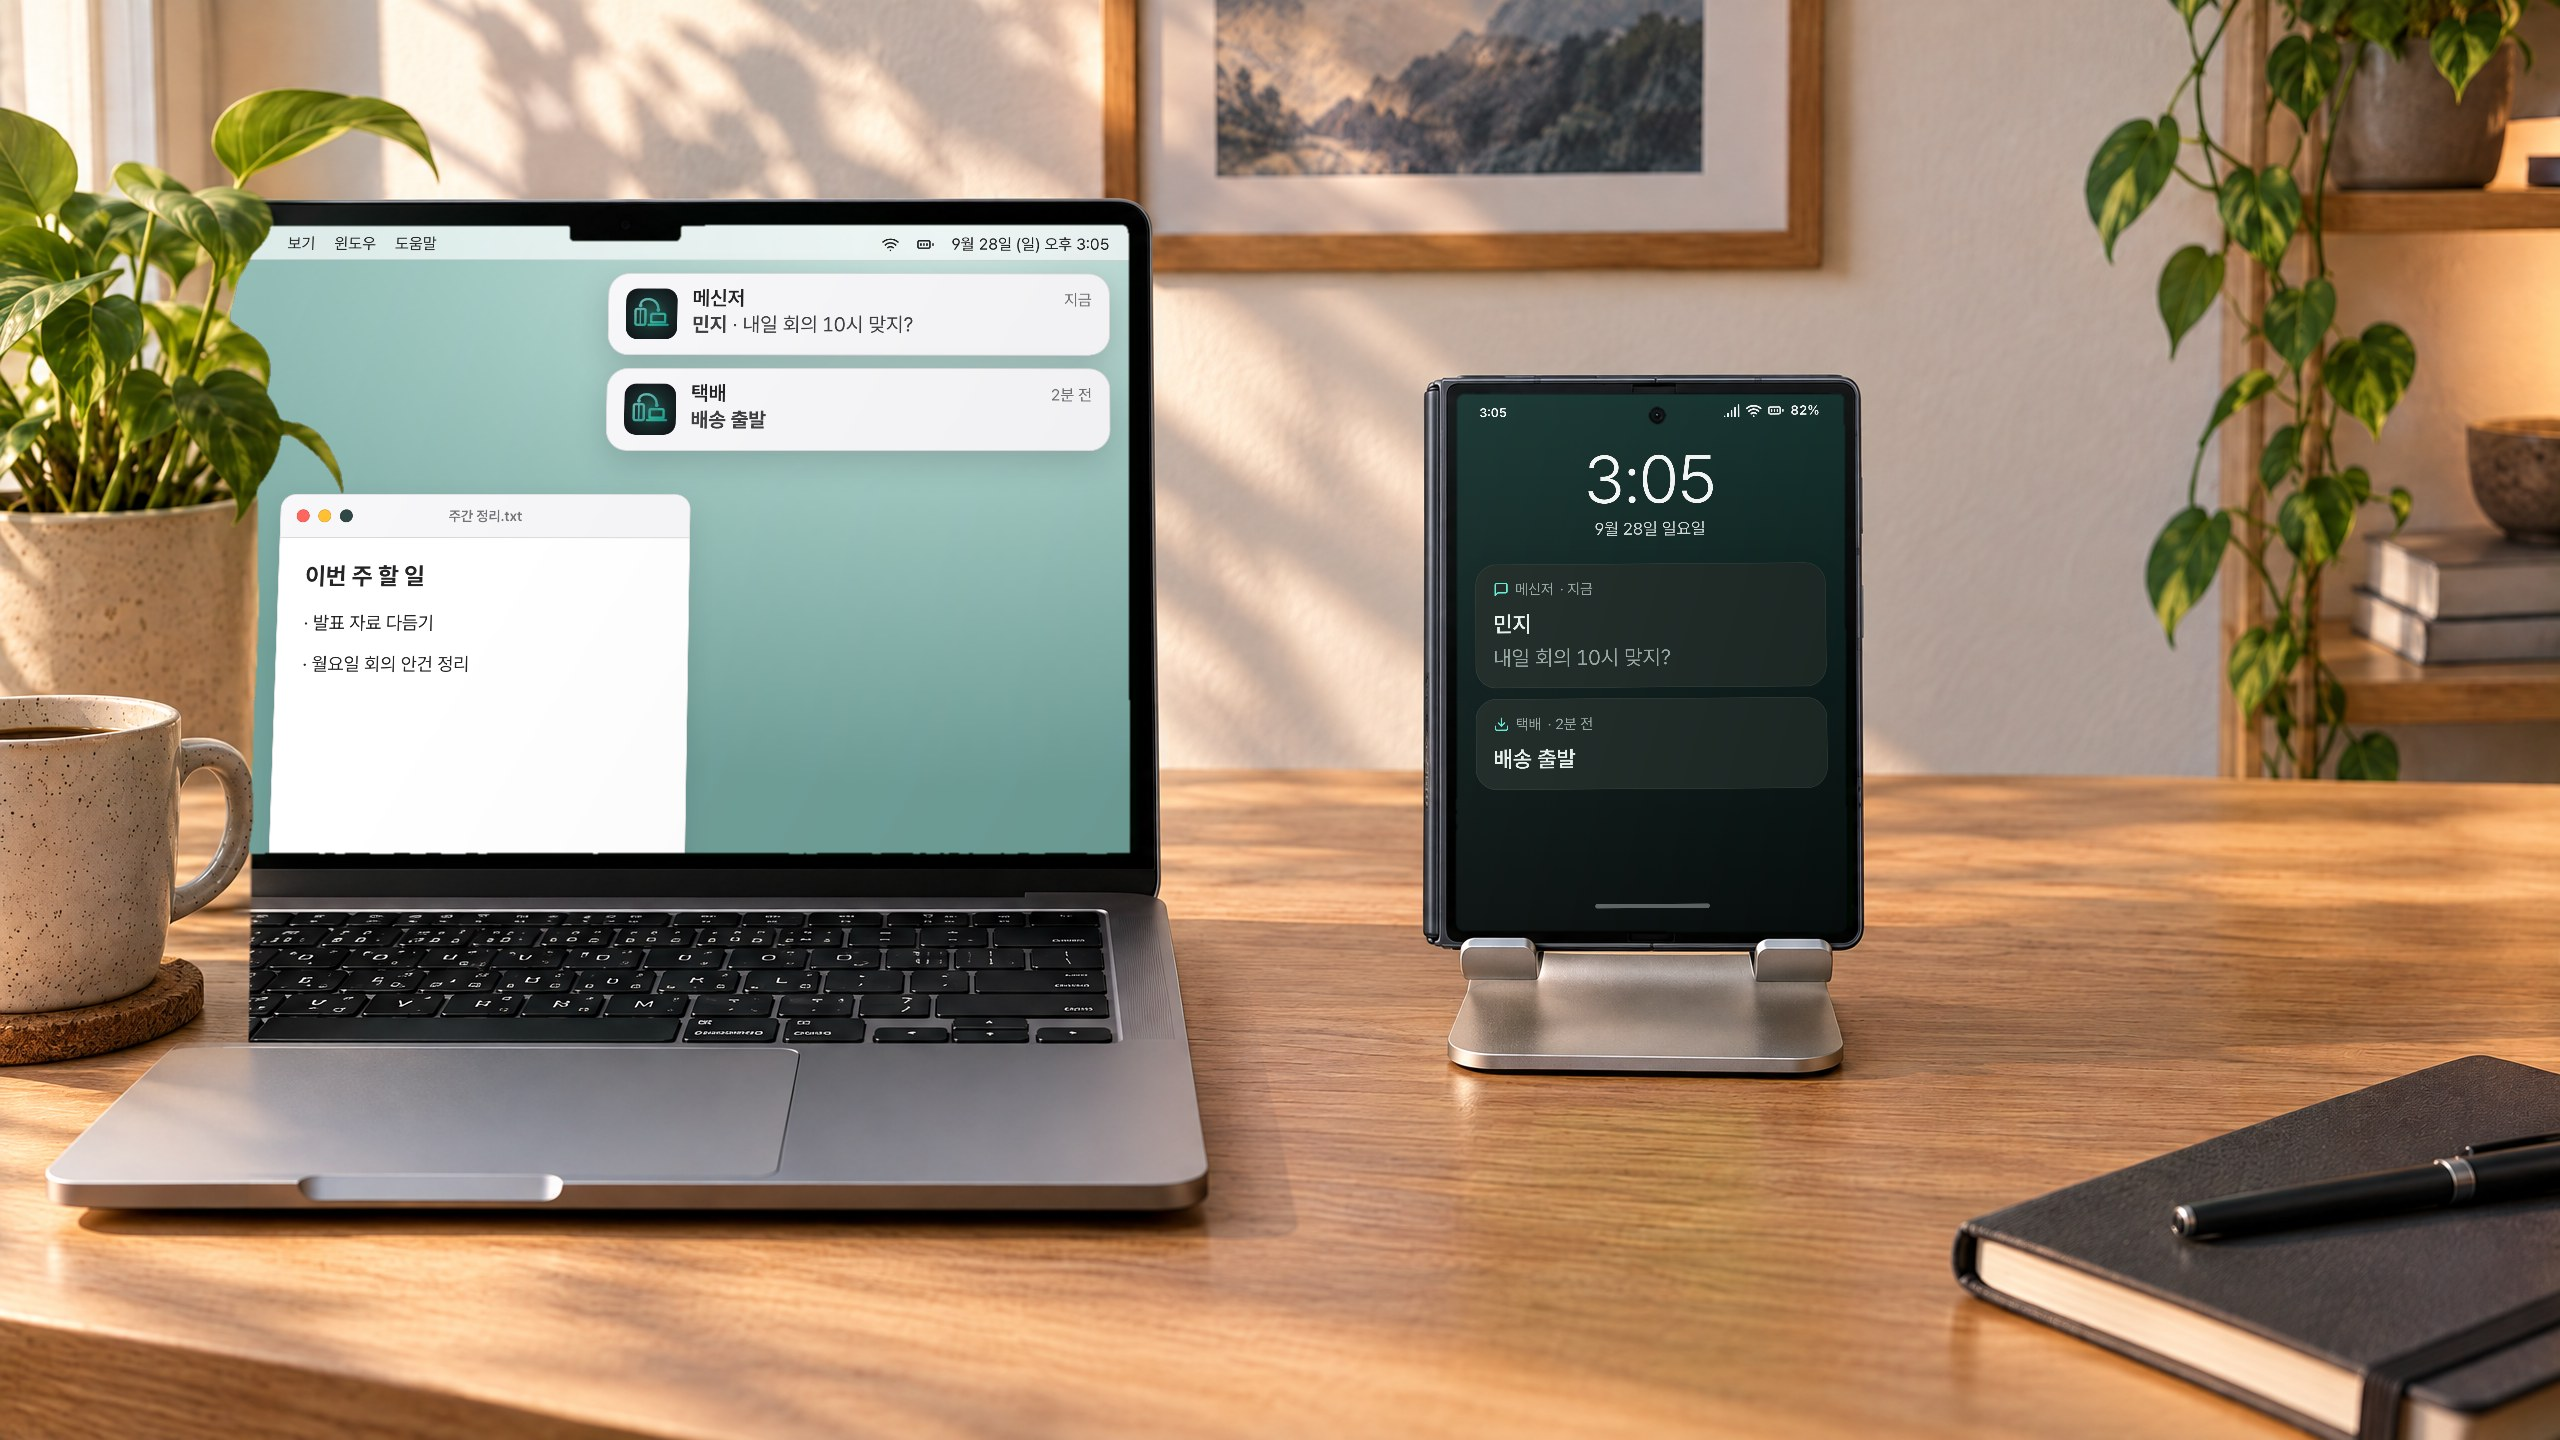
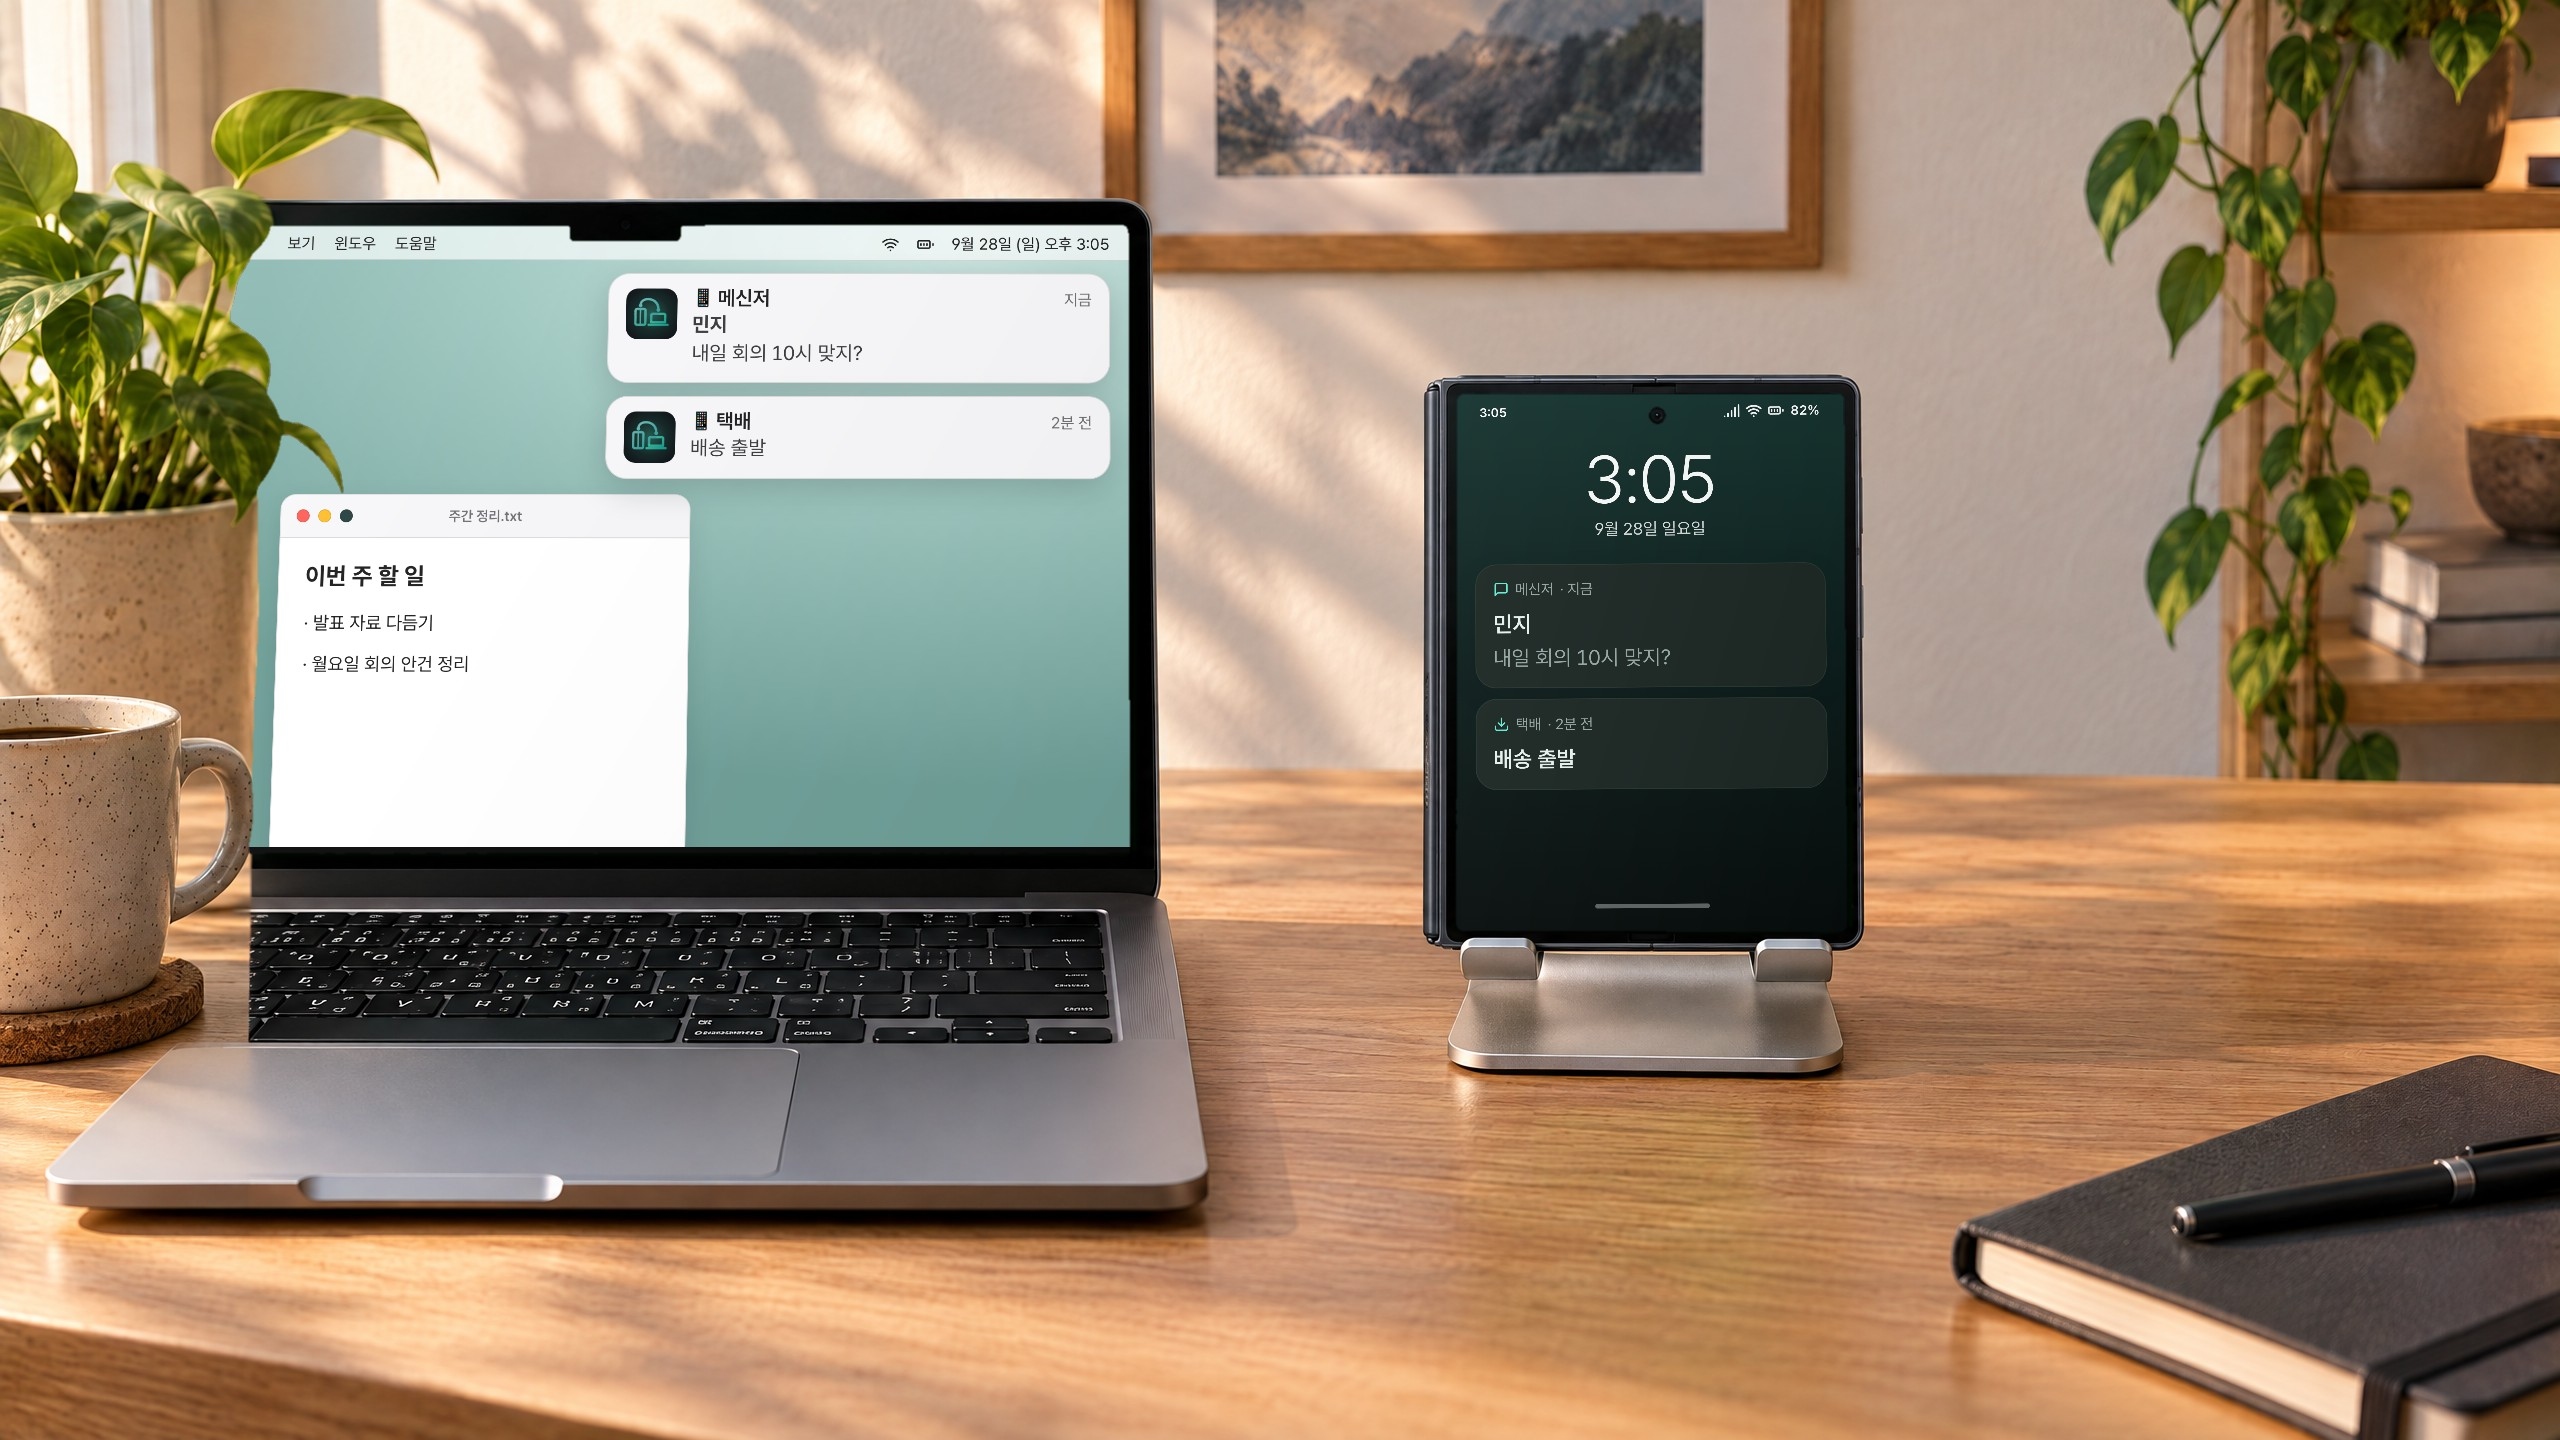
docs: scene fixes
Scene 2: show the Mac banner the way clipd posts it via terminal-notifier
(title "📱 <app>", sender line, message) and hide a jagged dark edge along
the bottom of the composited Mac screen.

Changed region(s): [[0.2188, 0.1875, 0.4375, 0.3438], [0.0938, 0.5625, 0.4375, 0.5938]]

diff --git a/docs/mockups/scenes/2-notify-mac.html b/docs/mockups/scenes/2-notify-mac.html
@@ -21,6 +21,8 @@
   .mac-notification .n-title { font-size: 19px; }
   .mac-notification .n-time { font-size: 15px; }
   .mac-notification .n-body { font-size: 19px; line-height: 27px; }
+  /* 배경 G 의 맥 화면 아래 가장자리 초록 경계가 들쭉날쭉해 합성 후 검은 톱니가 보인다 → 화면 맨 아래를 베젤처럼 어둡게 */
+  .desk::after { content: ""; position: absolute; left: 0; right: 0; bottom: 0; height: 3px; background: #0b0b0c; z-index: 9; }
 </style></head><body>
 <div class="desk">
   <div class="mac-menubar">
@@ -31,15 +33,15 @@
     <div class="mac-notification">
       <img data-app="clipbridge" alt="">
       <div>
-        <div class="n-top"><span class="n-title">메신저</span><span class="n-time">지금</span></div>
-        <div class="n-body"><b>민지</b> · 내일 회의 10시 맞지?</div>
+        <div class="n-top"><span class="n-title">📱 메신저</span><span class="n-time">지금</span></div>
+        <div class="n-body"><b>민지</b><br>내일 회의 10시 맞지?</div>
       </div>
     </div>
     <div class="mac-notification">
       <img data-app="clipbridge" alt="">
       <div>
-        <div class="n-top"><span class="n-title">택배</span><span class="n-time">2분 전</span></div>
-        <div class="n-body"><b>배송 출발</b></div>
+        <div class="n-top"><span class="n-title">📱 택배</span><span class="n-time">2분 전</span></div>
+        <div class="n-body">배송 출발</div>
       </div>
     </div>
   </div>
